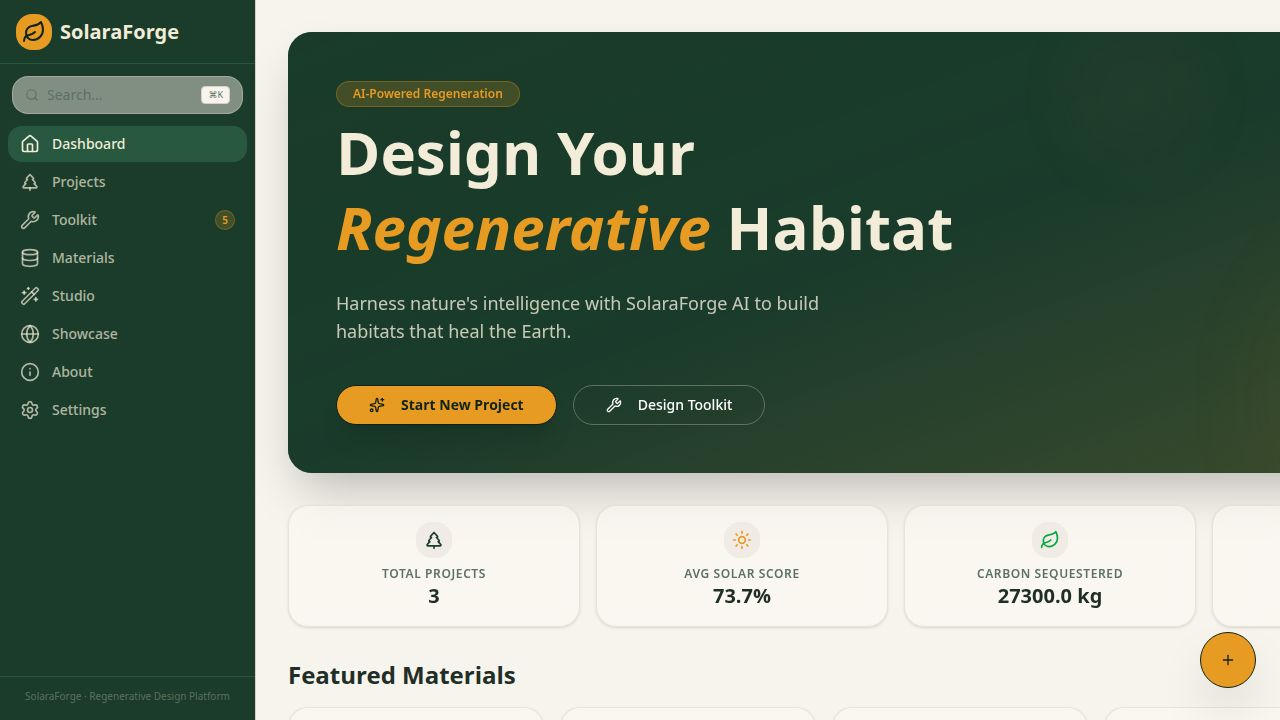
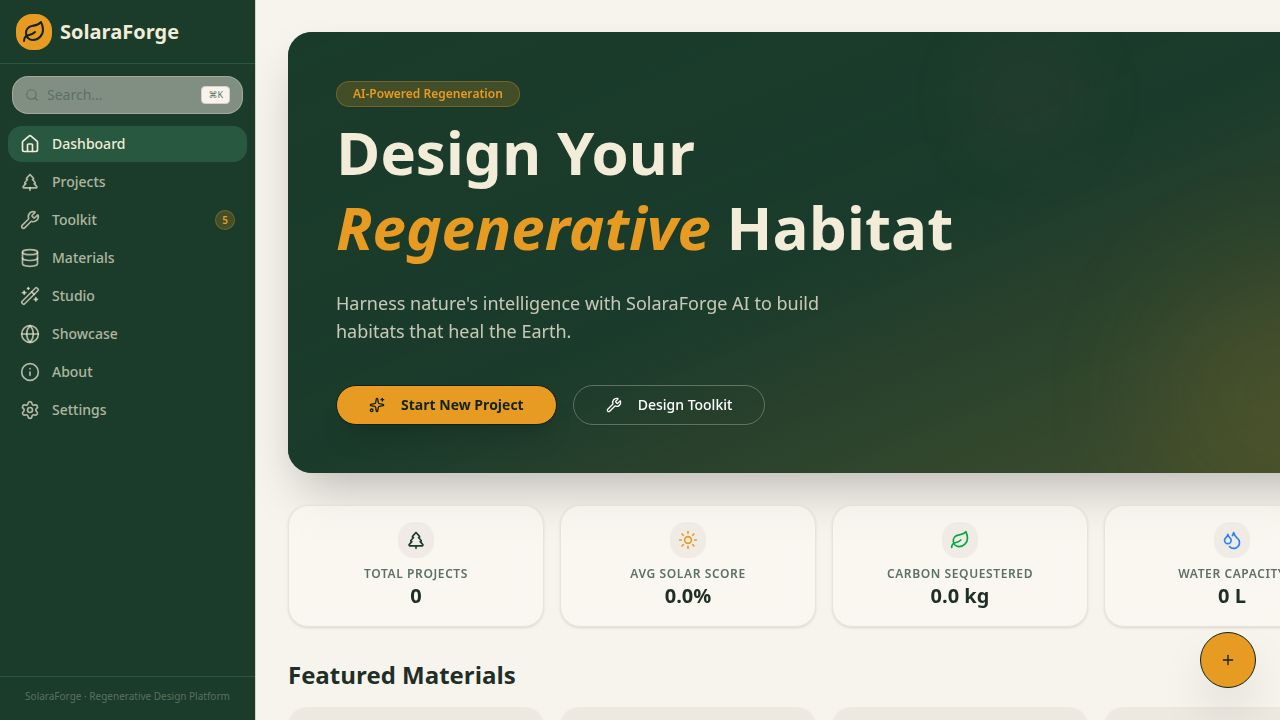
feat: Add "Apply to Project" button to moodboard concept cards
Task: Apply a moodboard concept to a project's settings in one click

## What was done
- Added an "Apply to Project" button at the bottom of each generated ConceptCard
  in the Moodboard tab (MoodboardTab.tsx)
- Button calls PATCH /api/projects/:id via the existing useUpdateProject hook,
  patching the project's `biome` (from spec.biome) and `description` (from spec.summary)
- After a successful patch, the project query cache is invalidated via
  getGetProjectQueryKey so the rest of the UI reflects the new values immediately
- A confirmation toast displays: "Updated biome to '<biome>' and description from
  the concept card."
- Button shows a loading spinner and "Applying…" text while the mutation is in flight
- Added useQueryClient and useUpdateProject hooks + CheckCircle2 icon import

## Files changed
- artifacts/solaraforge-web/src/components/projects/MoodboardTab.tsx
  - Imported useUpdateProject, getGetProjectQueryKey from @user/api-client-react
  - Imported useQueryClient from @user/react-query
  - Imported CheckCircle2 from lucide-react
  - Updated ConceptCard to accept projectId prop
  - Added handleApply async function with mutation + cache invalidation + toast
  - Added Apply button with loading state at bottom of CardContent
  - Updated MoodboardTab render to pass project.id to ConceptCard

## No deviations from task spec
All three acceptance criteria satisfied: button on card, PATCH call, confirmation toast.

Replit-Task-Id: 16b2209b-1083-479e-9260-ed4cf405238a

diff --git a/artifacts/solaraforge-web/src/components/projects/MoodboardTab.tsx b/artifacts/solaraforge-web/src/components/projects/MoodboardTab.tsx
@@ -1,5 +1,5 @@
 import { useState, useRef, useCallback } from "react";
-import { useAnalyzeMoodboard, useListMaterials, SolaraSpec, Material } from "@workspace/api-client-react";
+import { useAnalyzeMoodboard, useListMaterials, useUpdateProject, getGetProjectQueryKey, SolaraSpec, Material } from "@workspace/api-client-react";
 import { Card, CardContent, CardHeader, CardTitle } from "@/components/ui/card";
 import { Button } from "@/components/ui/button";
 import { Input } from "@/components/ui/input";
@@ -8,6 +8,7 @@ import { Badge } from "@/components/ui/badge";
 import { Skeleton } from "@/components/ui/skeleton";
 import { useToast } from "@/hooks/use-toast";
 import { saveMaterialToProject, getProjectMaterials } from "@/components/materials/MaterialCard";
+import { useQueryClient } from "@tanstack/react-query";
 import { cn } from "@/lib/utils";
 import {
   ImagePlus,
@@ -22,6 +23,7 @@ import {
   Zap,
   BookmarkPlus,
   BookmarkCheck,
+  CheckCircle2,
 } from "lucide-react";
 
 interface MoodboardTabProps {
@@ -322,6 +324,25 @@ interface ConceptCardProps {
 }
 
 function ConceptCard({ spec, projectId, materials }: ConceptCardProps) {
+  const { toast } = useToast();
+  const queryClient = useQueryClient();
+  const updateProject = useUpdateProject();
+
+  const handleApply = async () => {
+    await updateProject.mutateAsync({
+      id: projectId,
+      data: {
+        biome: spec.biome,
+        description: spec.summary,
+      },
+    });
+    queryClient.invalidateQueries({ queryKey: getGetProjectQueryKey(projectId) });
+    toast({
+      title: "Concept applied!",
+      description: `Updated biome to "${spec.biome}" and description from the concept card.`,
+    });
+  };
+
   return (
     <Card className="border-border/50 bg-card/50 overflow-hidden">
       <div className="h-2 w-full" style={{ background: `linear-gradient(to right, ${spec.palette.join(", ")})` }} />
@@ -430,6 +451,24 @@ function ConceptCard({ spec, projectId, materials }: ConceptCardProps) {
             </div>
           </div>
         )}
+
+        <Button
+          onClick={handleApply}
+          disabled={updateProject.isPending}
+          className="w-full gap-2 bg-primary text-primary-foreground hover:bg-primary/90"
+        >
+          {updateProject.isPending ? (
+            <>
+              <Loader2 className="h-4 w-4 animate-spin" />
+              Applying…
+            </>
+          ) : (
+            <>
+              <CheckCircle2 className="h-4 w-4" />
+              Apply to Project
+            </>
+          )}
+        </Button>
       </CardContent>
     </Card>
   );